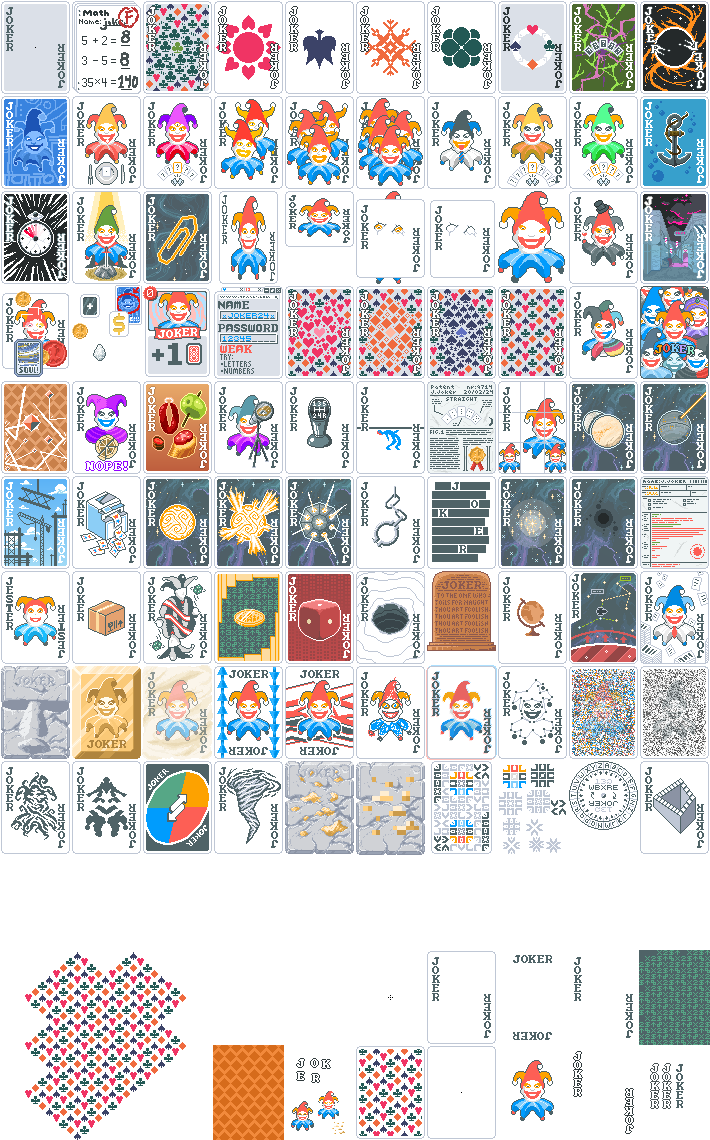
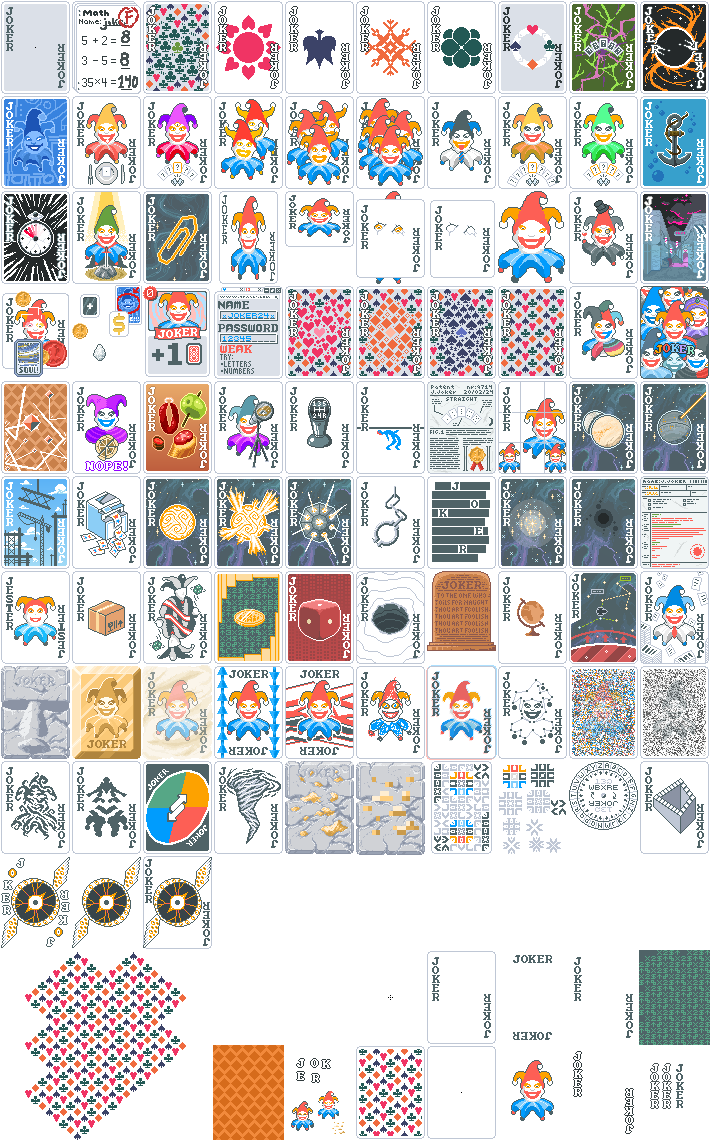
Add Gold Bar

Changed region(s): [[0.0, 0.7368, 0.3099, 0.8289]]

diff --git a/web/addjokers.js b/web/addjokers.js
@@ -651,6 +651,14 @@ let jokers = [
     image_url: "img/j/penrose_steps.png",
     rarity: "Uncommon"
   },
+  {
+    name: "Gold Bar",
+    text: [
+        "Retrigger all played and held {C:attention}Gold{} cards"
+    ],
+    image_url: "img/j/gold_bar.png",
+    rarity: "Uncommon"
+  },
 
   // {
   //   name: "",
